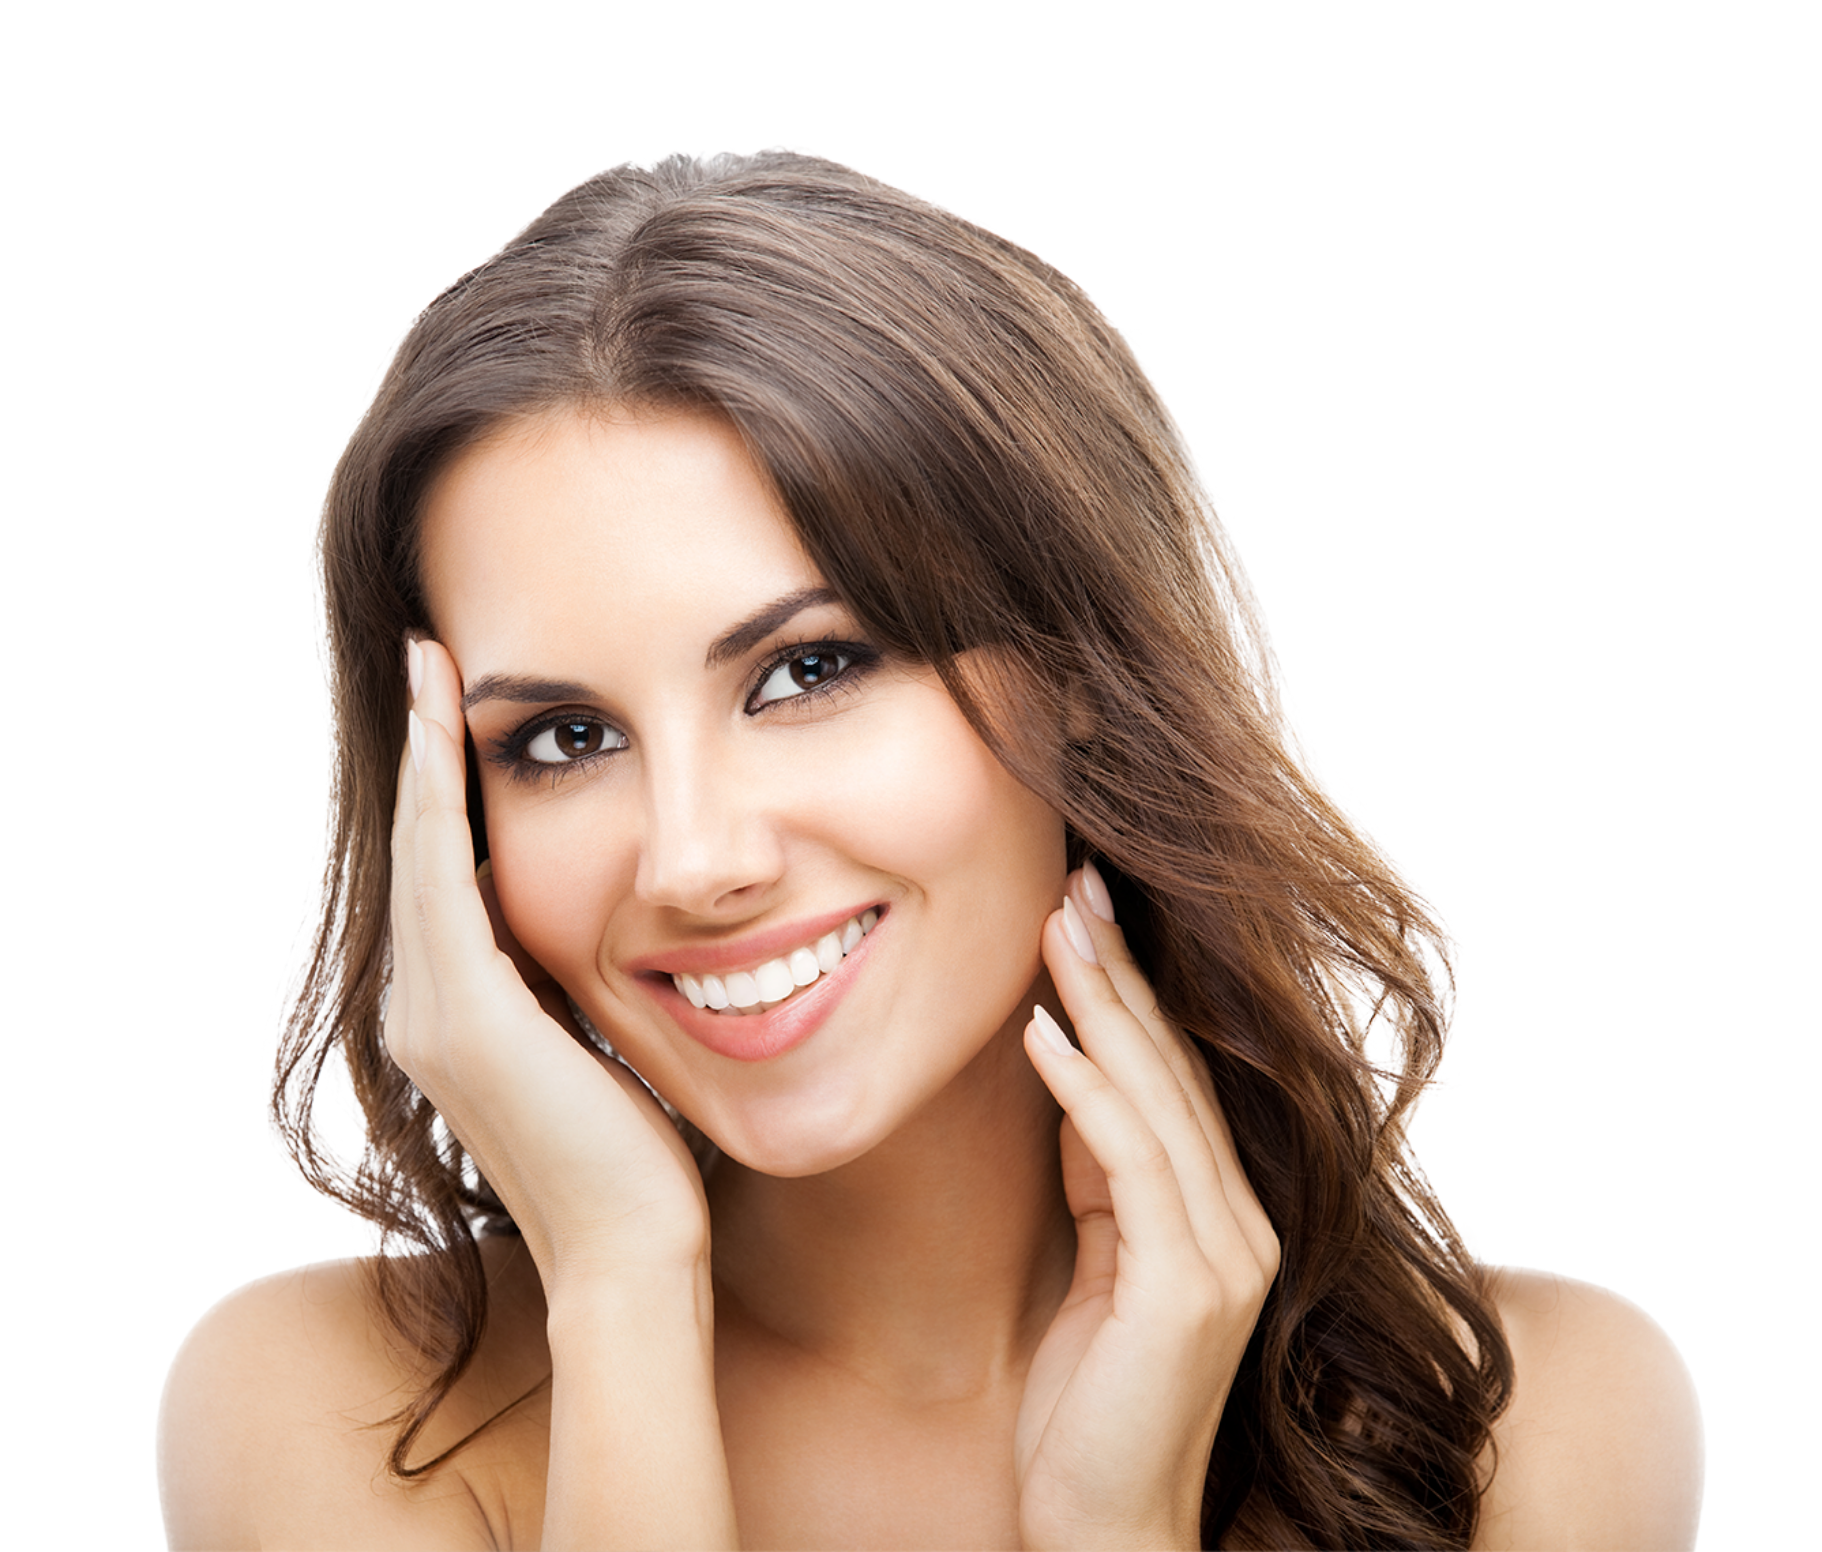
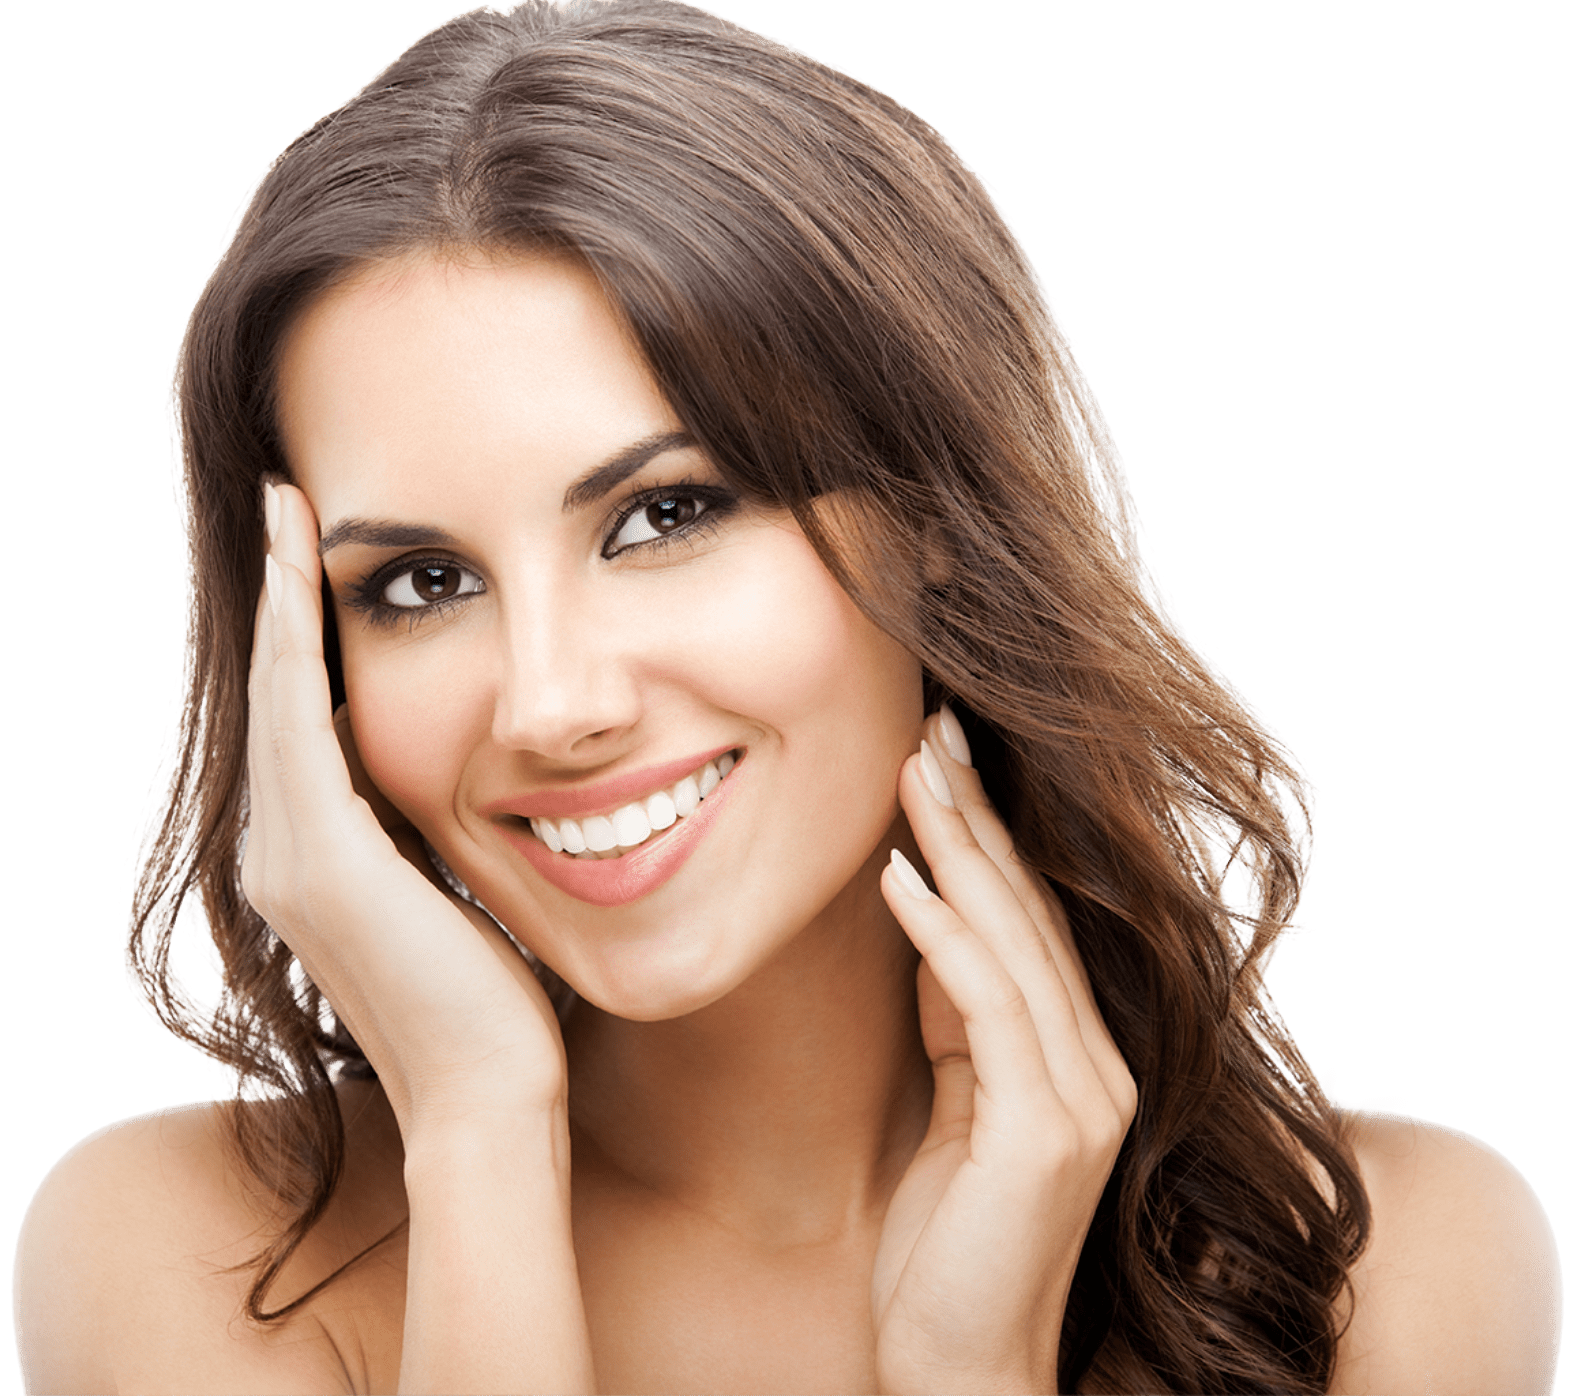
botox & fillers section complete

diff --git a/css/theme.min.css b/css/theme.min.css
@@ -446,6 +446,20 @@ section {
 /* -------------------------------------------------------------------------- */
 /* BOTOX AND FILLERS SECTION */
 /* -------------------------------------------------------------------------- */
+.botox-fillers {
+  padding: 40px 20px 0 20px;
+  background: url("../../img/botox-bg@2x.jpg") center/cover; }
+  .botox-fillers .containerish {
+    display: grid; }
+    .botox-fillers .containerish .section-info {
+      margin-bottom: 2rem;
+      max-width: 65%;
+      margin: 0 auto;
+      margin-bottom: 2rem; }
+    .botox-fillers .containerish img {
+      max-width: 65%;
+      margin: 0 auto; }
+
 /* -------------------------------------------------------------------------- */
 /* ABOUT US */
 /* -------------------------------------------------------------------------- */
@@ -984,6 +998,24 @@ img {
         font-family: "Quicksand", sans-serif;
         font-size: 15px; }
   /* BOTOX AND FILLERS ******************************************** */
+  .botox-fillers {
+    overflow: hidden; }
+    .botox-fillers .containerish {
+      display: grid;
+      grid-template-columns: 1fr 100px 1fr;
+      grid-template-rows: auto;
+      align-items: center; }
+      .botox-fillers .containerish .section-info {
+        grid-column: 1 / 3;
+        grid-row: 1;
+        max-width: 580px !important; }
+      .botox-fillers .containerish img {
+        grid-column: 2 / 4;
+        grid-row: 1;
+        position: relative;
+        width: 700px !important;
+        max-width: 700px !important;
+        right: -50px; }
   /* ABOUT US ***************************************************** */
   /* NEWSLETTER *************************************************** */
   /* LASER HAIR REMOVAL AND ELECTROLYSIS ************************** */
@@ -1024,6 +1056,23 @@ img {
           max-width: 490px; }
   /* SEARCH ******************************************************* */
   /* BOTOX AND FILLERS ******************************************** */
+  .botox-fillers {
+    overflow: hidden; }
+    .botox-fillers .containerish {
+      display: grid;
+      grid-template-columns: 1fr 100px 1fr;
+      grid-template-rows: auto;
+      align-items: center; }
+      .botox-fillers .containerish .section-info {
+        grid-column: 1 / 3;
+        grid-row: 1;
+        max-width: 580px; }
+      .botox-fillers .containerish img {
+        grid-column: 2 / 4;
+        grid-row: 1;
+        position: relative;
+        width: 700px;
+        right: 0; }
   /* ABOUT US ***************************************************** */
   /* NEWSLETTER *************************************************** */
   /* LASER HAIR REMOVAL AND ELECTROLYSIS ************************** */

diff --git a/scss/partials/_responsive.scss b/scss/partials/_responsive.scss
@@ -263,6 +263,30 @@
     }
   }
   /* BOTOX AND FILLERS ******************************************** */
+  .botox-fillers {
+    overflow: hidden;
+    .containerish {
+      display: grid;
+      grid-template-columns: 1fr 100px 1fr;
+      grid-template-rows: auto;
+      align-items: center;
+
+      .section-info {
+        grid-column: 1 / 3;
+        grid-row: 1;
+        max-width: 580px !important;
+      }
+
+      img {
+        grid-column: 2 / 4;
+        grid-row: 1;
+        position: relative;
+        width: 700px !important;
+        max-width: 700px !important;
+        right: -50px;
+      }
+    }
+  }
   /* ABOUT US ***************************************************** */
   /* NEWSLETTER *************************************************** */
   /* LASER HAIR REMOVAL AND ELECTROLYSIS ************************** */
@@ -322,6 +346,29 @@
   }
   /* SEARCH ******************************************************* */
   /* BOTOX AND FILLERS ******************************************** */
+  .botox-fillers {
+    overflow: hidden;
+    .containerish {
+      display: grid;
+      grid-template-columns: 1fr 100px 1fr;
+      grid-template-rows: auto;
+      align-items: center;
+
+      .section-info {
+        grid-column: 1 / 3;
+        grid-row: 1;
+        max-width: 580px;
+      }
+
+      img {
+        grid-column: 2 / 4;
+        grid-row: 1;
+        position: relative;
+        width: 700px;
+        right: 0;
+      }
+    }
+  }
   /* ABOUT US ***************************************************** */
   /* NEWSLETTER *************************************************** */
   /* LASER HAIR REMOVAL AND ELECTROLYSIS ************************** */

diff --git a/index.html b/index.html
@@ -200,6 +200,28 @@
       <!-- /search -->
 
       <!-- Botox and Fillers -->
+      <div class="botox-fillers">
+        <div class="containerish">
+          <div class="section-info">
+            <h2 class="color-main">Botox & Fillers</h2>
+            <p class="body-copy color-dark-accent">
+              Description of Botox & fillers dolor sit amet, consetetur
+              sadipscing elitr, sed diam nonumy eirmod tempor invidunt ut labore
+              et dolore magna aliquyam erat, sed diam voluptua. At vero eos et
+              accusam et justo duo dolores et ea rebum. Stet clita kasd
+              gubergren, no sea takimata sanctus est Lorem ipsum dolor sit amet.
+              Lorem ipsum dolor sit amet, vero eos et justo consetetur.
+            </p>
+            <div class="ui-btn-group">
+              <a href="#" class="ui-btn ui-btn-main">LEARN ABOUT BOTOX</a>
+              <a href="#" class="ui-btn ui-btn-dark-accent"
+                >LEARN ABOUT FILLERS</a
+              >
+            </div>
+          </div>
+          <img src="img/botox-img@2x.png" alt="" />
+        </div>
+      </div>
       <!-- /Botox and Fillers -->
 
       <!-- About Us -->

diff --git a/scss/partials/_sections.scss b/scss/partials/_sections.scss
@@ -53,6 +53,25 @@ section {
 /* -------------------------------------------------------------------------- */
 /* BOTOX AND FILLERS SECTION */
 /* -------------------------------------------------------------------------- */
+.botox-fillers {
+  padding: 40px 20px 0 20px;
+  background: url("../../img/botox-bg@2x.jpg") center / cover;
+  .containerish {
+    display: grid;
+
+    .section-info {
+      margin-bottom: 2rem;
+      max-width: 65%;
+      margin: 0 auto;
+      margin-bottom: 2rem;
+    }
+
+    img {
+      max-width: 65%;
+      margin: 0 auto;
+    }
+  }
+}
 /* -------------------------------------------------------------------------- */
 /* ABOUT US */
 /* -------------------------------------------------------------------------- */
